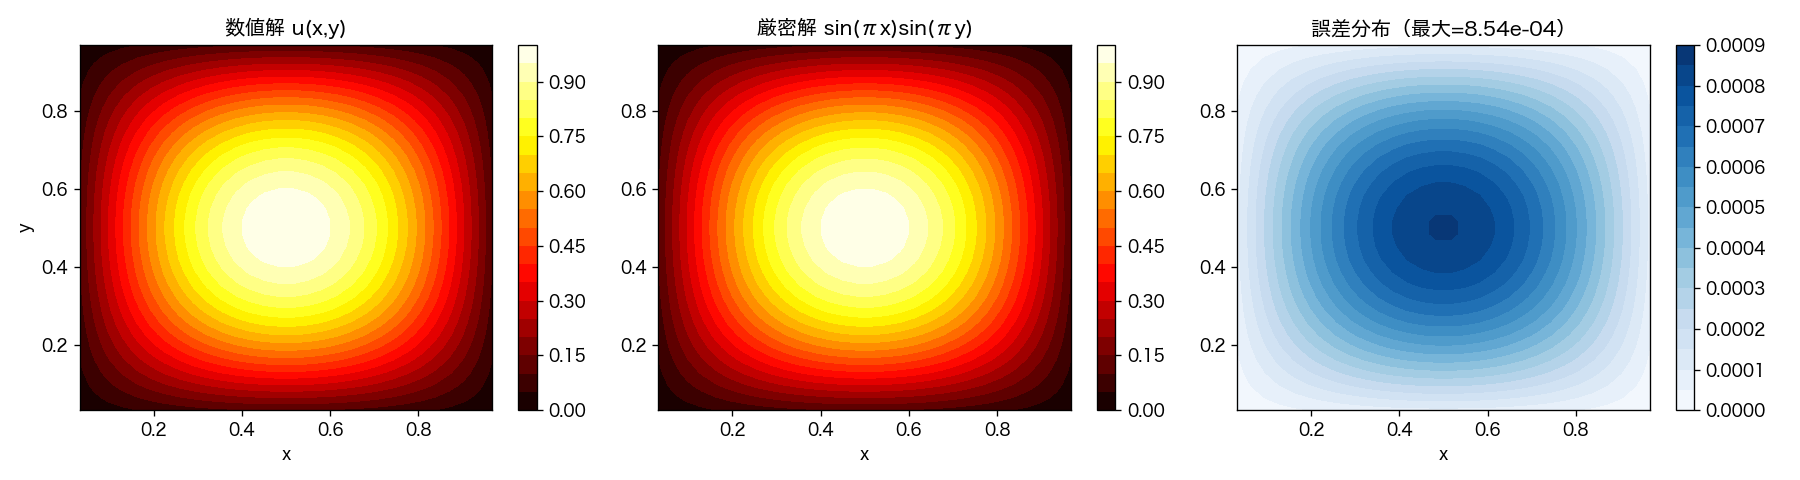
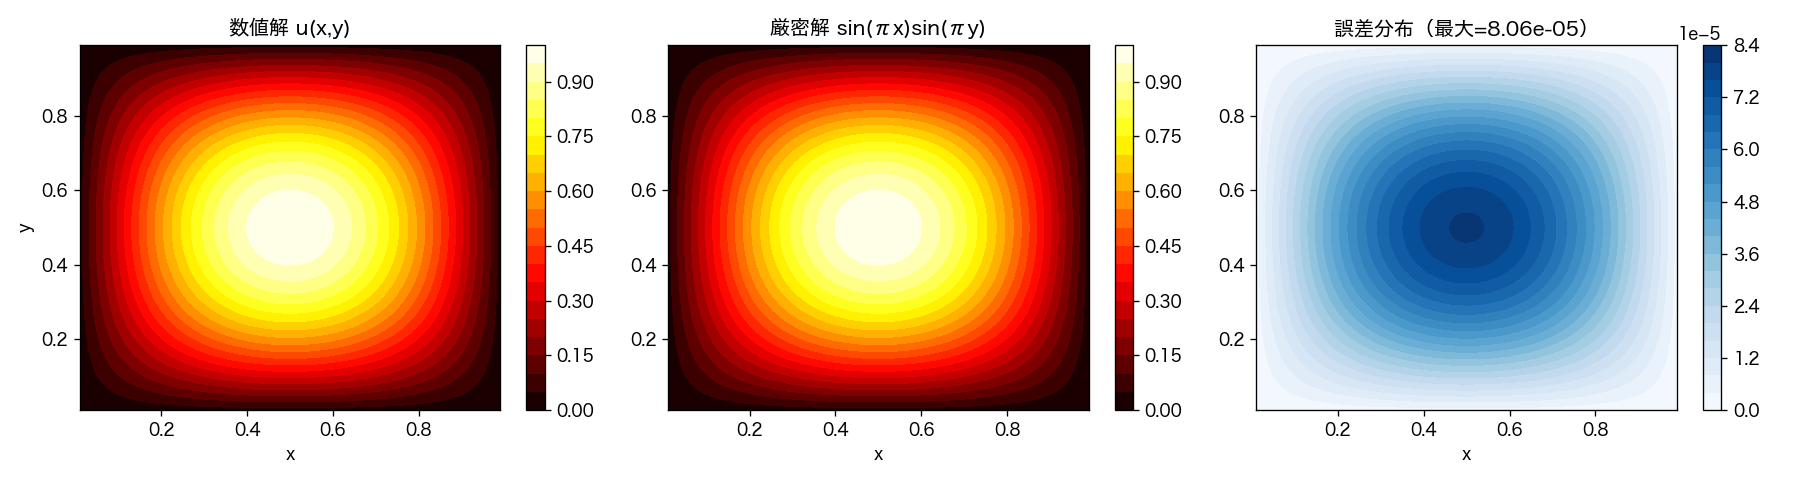
20260617 04

diff --git a/07_hpc_programing/01_numpy/phase6.py b/07_hpc_programing/01_numpy/phase6.py
@@ -10,9 +10,8 @@ matplotlib.rc('font', family='Hiragino Sans')
 # ∂²u/∂x² + ∂²u/∂y² = -f(x,y)
 # クロネッカー積を使って1D行列から2D行列を構築
 # ============================================================
-
-N = 40
-h = 1.0 /(N+1)
+N = 100             # 各方向の格子点数
+h = 1.0 / (N + 1)  # 格子幅
 
 # 1D ポアソン行列（x方向 or y方向）
 T1d = sp.diags(
@@ -20,12 +19,10 @@ T1d = sp.diags(
     [0, 1, -1], format='csr'
 ) / h**2
 
-# print(T1d)
-
 I_N = sp.eye(N, format='csr')
 
-# 2D ポアソン行列:クロネッカー積で組み立て
-# A2d = T1d @ I + I @ T1d
+# 2D ポアソン行列：クロネッカー積で組み立て
+# A2d = T1d ⊗ I + I ⊗ T1d
 A2d = sp.kron(T1d, I_N) + sp.kron(I_N, T1d)
 
 print(f"行列サイズ: {A2d.shape}")
@@ -42,37 +39,37 @@ print(f"密行列なら:   {(N*N)**2 * 8 / 1e6:.1f} MB")
 x = np.linspace(h, 1-h, N)
 y = np.linspace(h, 1-h, N)
 X, Y = np.meshgrid(x, y)
-# print(x, y, X)
 
-f2d = 2 * np.pi**2 * np.sin(np.pi * X) * np.sin(np.pi * Y)
-b = f2d.ravel()  # 2D配列を1Dベクトルに変換
+# 右辺ベクトル（2D配列 → 1Dに並べる）
+f2d = 2 * np.pi**2 * np.sin(np.pi*X) * np.sin(np.pi*Y)
+b   = f2d.ravel()   # (N×N,) の1Dベクトルに変換
 
 # ============================================================
 # Step 3: 解く（直接法 vs CG+ILU）
 # ============================================================
 import time
+
 # 直接法
 t0 = time.time()
 u_direct = spla.spsolve(A2d, b)
-print(f"\n直接法の計算時間: {time.time() - t0:.3f} 秒")
+print(f"\n直接法: {time.time()-t0:.3f}秒")
 
-# ILU前処理つきCG
+# ILU前処理付きCG
 ilu = spla.spilu(A2d.tocsc(), fill_factor=10)
-M = spla.LinearOperator(A2d.shape, ilu.solve)
+M   = spla.LinearOperator(A2d.shape, ilu.solve, dtype=float)
 
 iters = [0]
-
 def cb(xk): iters[0] += 1
 
 t0 = time.time()
 u_cg, info = spla.cg(A2d, b, M=M, rtol=1e-9, callback=cb)
-print(f"CGの計算時間: {time.time() - t0:.3f} 秒, 反復回数: {iters[0]}")
+print(f"CG+ILU: {time.time()-t0:.3f}秒  {iters[0]}反復")
 
 # ============================================================
 # Step 4: 厳密解との比較
 # ============================================================
-u_exact = np.sin(np.pi * X) * np.sin(np.pi * Y)
-u2d = u_direct.reshape(N, N)
+u_exact = np.sin(np.pi*X) * np.sin(np.pi*Y)
+u2d     = u_direct.reshape(N, N)
 
 print(f"\n最大誤差（直接法）: {np.max(np.abs(u2d - u_exact)):.2e}")
 
@@ -83,7 +80,7 @@ fig, axes = plt.subplots(1, 3, figsize=(15, 4))
 
 # 数値解
 im0 = axes[0].contourf(X, Y, u2d, levels=20, cmap='hot')
-axes[0].set_title('数値解 u(x, y)')
+axes[0].set_title('数値解 u(x,y)')
 axes[0].set_xlabel('x'); axes[0].set_ylabel('y')
 plt.colorbar(im0, ax=axes[0])
 
@@ -96,9 +93,10 @@ plt.colorbar(im1, ax=axes[1])
 # 誤差分布
 err = np.abs(u2d - u_exact)
 im2 = axes[2].contourf(X, Y, err, levels=20, cmap='Blues')
-axes[2].set_title(f'誤差分布 (最大={err.max():.2e}')
+axes[2].set_title(f'誤差分布（最大={err.max():.2e}）')
 axes[2].set_xlabel('x')
 plt.colorbar(im2, ax=axes[2])
 
 plt.tight_layout()
+plt.savefig('poisson_2d.png', dpi=120)
 plt.show()
